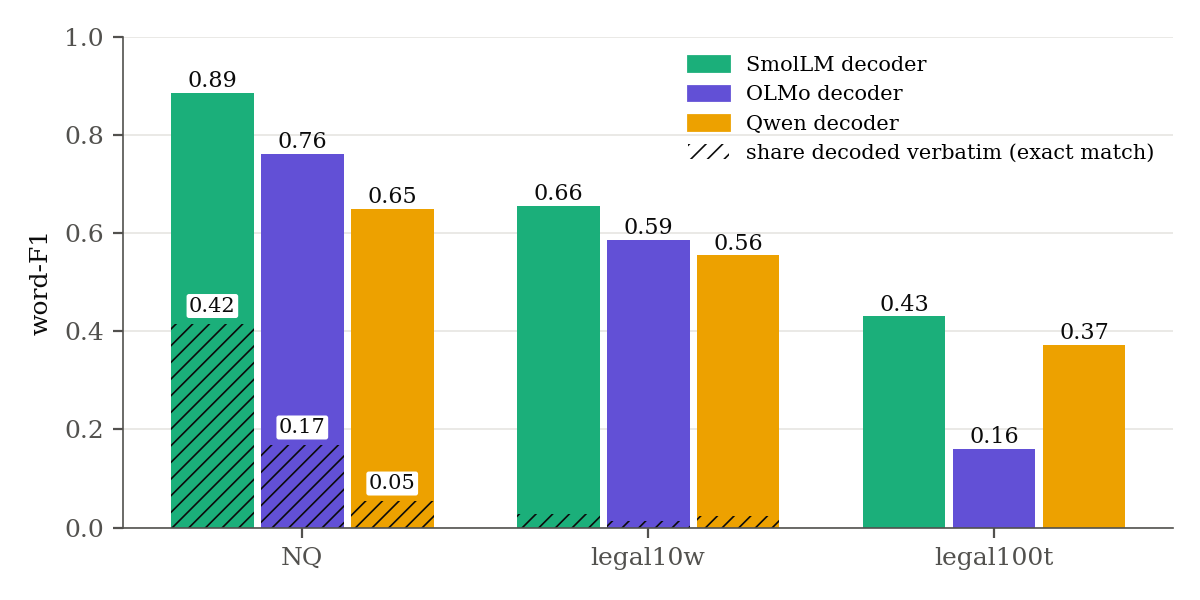
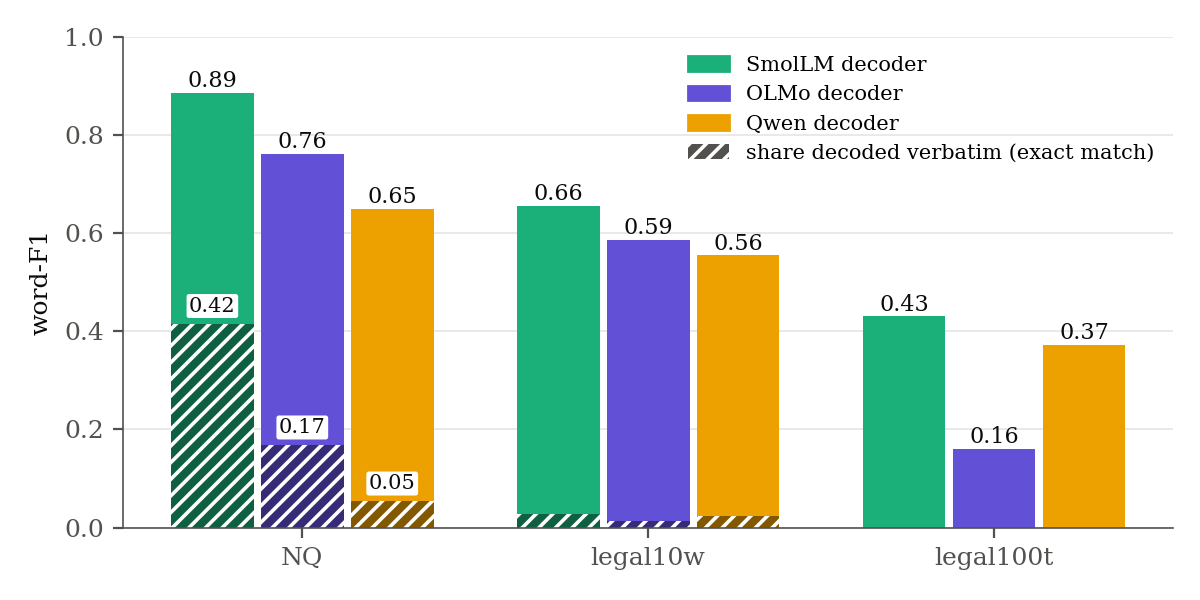
ch4 decoder figure: exact-match base darker, white hatch

Changed region(s): [[0.1233, 0.54, 0.37, 0.9], [0.4317, 0.84, 0.6475, 0.9], [0.555, 0.24, 0.6167, 0.27]]

diff --git a/figures/scripts/make_figures.py b/figures/scripts/make_figures.py
@@ -428,7 +428,9 @@ def decoders():
     import glob
     from matplotlib.patches import Patch
     series = [("SmolLM", "smollm", "#1baf7a"), ("OLMo", "olmo", "#6250d6"), ("Qwen", "qwen", "#eda100")]
-    plt.rcParams["hatch.linewidth"] = 0.6
+    from matplotlib.colors import to_rgb
+    plt.rcParams["hatch.linewidth"] = 1.3
+    dark = lambda c: tuple(0.55 * v for v in to_rgb(c))  # the verbatim base: the decoder's hue darkened, white hatch
     fig, ax = plt.subplots(figsize=(6.0, 3.0))
     width = 0.26
     for i, (name, root) in enumerate(MAIN):
@@ -444,7 +446,7 @@ def decoders():
             assert len(f1[key]) == 3 * 4500
             x, v, e = i + (k - 1) * width, sum(f1[key]) / len(f1[key]), sum(em[key]) / len(em[key])
             ax.bar(x, v, width * 0.92, color=color)
-            ax.bar(x, e, width * 0.92, color=color, hatch="////", edgecolor=INK, linewidth=0)
+            ax.bar(x, e, width * 0.92, facecolor=dark(color), hatch="////", edgecolor="white", linewidth=0)
             ax.annotate(f"{v:.2f}", (x, v), xytext=(0, 2), textcoords="offset points", ha="center", fontsize=8, color=INK)
             if e >= 0.04:
                 ax.annotate(f"{e:.2f}", (x, e), xytext=(0, 3), textcoords="offset points", ha="center", va="bottom", fontsize=7.5,
@@ -457,7 +459,7 @@ def decoders():
     ax.grid(axis="y")
     ax.set_axisbelow(True)
     handles = [Patch(color=c, label=f"{l} decoder") for l, _, c in series]
-    handles.append(Patch(facecolor="white", hatch="////", edgecolor=INK, linewidth=0, label="share decoded verbatim (exact match)"))
+    handles.append(Patch(facecolor=INK2, hatch="////", edgecolor="white", linewidth=0, label="share decoded verbatim (exact match)"))
     ax.legend(handles=handles, loc="upper right", fontsize=7.5)
     fig.tight_layout()
     save(fig, "ch4/decoders")
